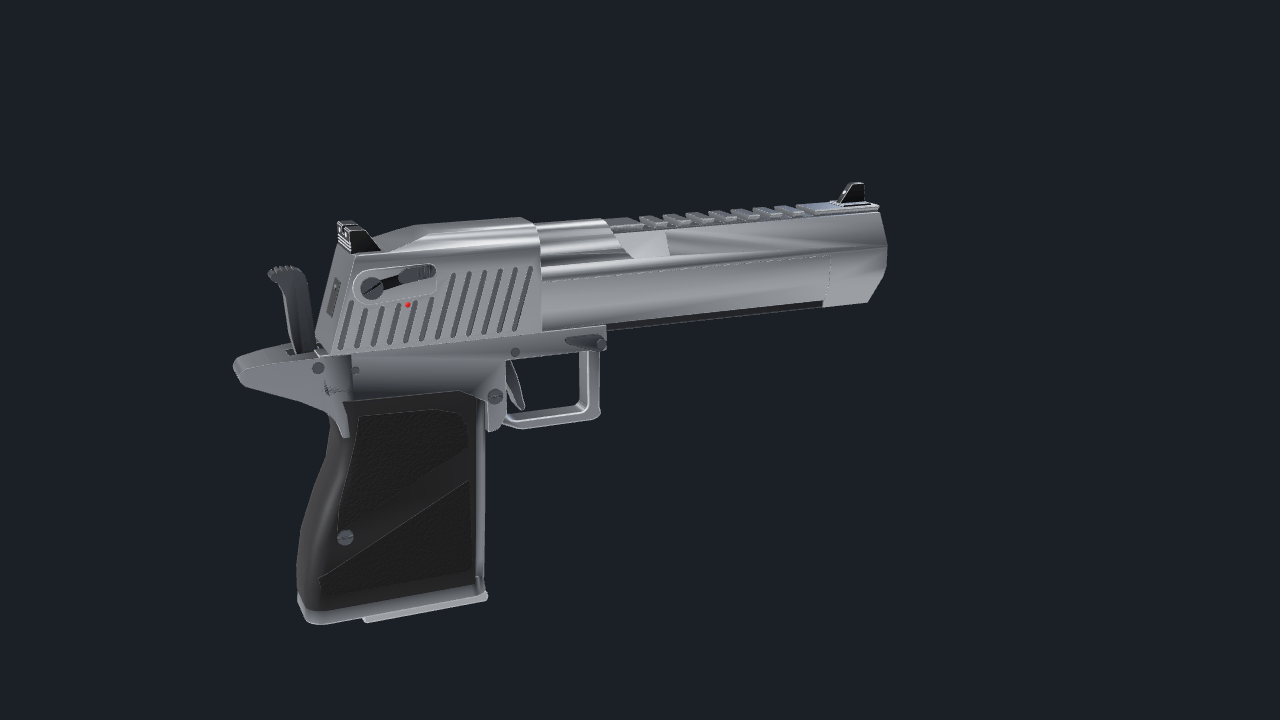
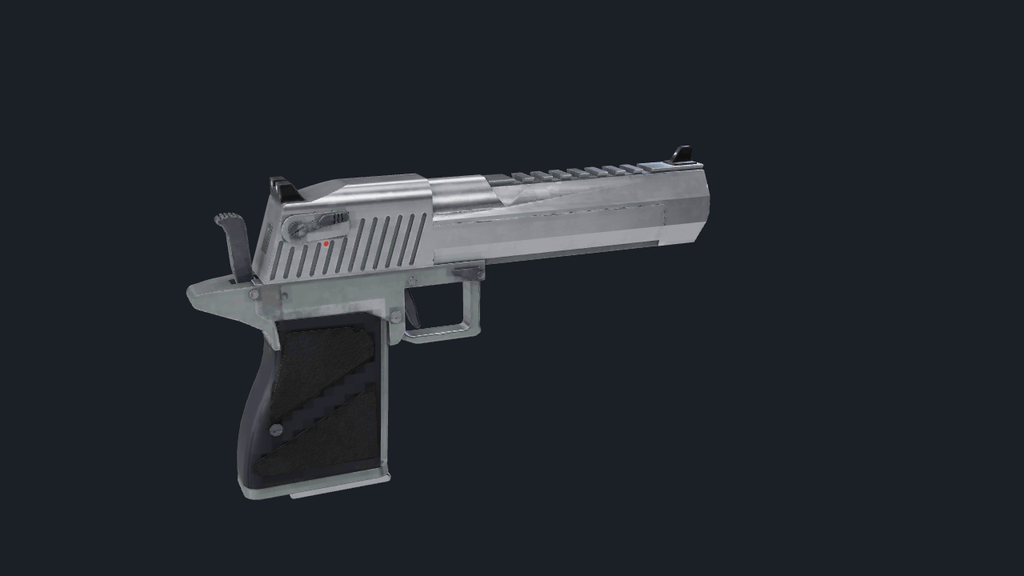
docs(weapons): bake pipeline, ktx2 rebuild step, texture budgets and new previews

diff --git a/docs/assets/weapons.md b/docs/assets/weapons.md
@@ -3,11 +3,13 @@
 All of these models are original. The two firearms are built by committed
 Blender scripts from 2D outlines, lathes and booleans. The 20 knives are built
 in TypeScript at runtime. Nothing is imported: no Valve or Counter-Strike
-assets, no Sketchfab rigs, no downloaded meshes or textures. The designs follow
-real-world firearm and knife layouts (a heavy .50 gas pistol, a bolt-action
-magnum with a thumbhole stock, common knife styles), the same way any shooter
-models a real gun, but every vertex comes from code in this repo. The only
-texture maps are small normal maps generated in the scripts.
+assets, no Sketchfab rigs, no downloaded meshes. The designs follow real-world
+firearm and knife layouts (a heavy .50 gas pistol, a bolt-action magnum with a
+thumbhole stock, common knife styles), the same way any shooter models a real
+gun, but every vertex comes from code in this repo. The firearm textures are
+baked by the scripts. Three CC0 ambientCG maps (Scratches005, Metal009 and
+Plastic012B, downscaled in `tools/blender/weapons/textures/`, listed in
+`CREDITS.md`) feed the bake as scratch and micro roughness detail.
 
 Display names stay "AWP" and "Deagle".
 
@@ -17,20 +19,32 @@ Display names stay "AWP" and "Deagle".
 # firearms (blender 5.2 lts). --renders writes the preview pngs, omit it for a faster build
 blender -b --factory-startup --python-exit-code 1 -P tools/blender/weapons/build_deagle.py -- --renders .blender-tmp/weapons/final
 blender -b --factory-startup --python-exit-code 1 -P tools/blender/weapons/build_awp.py -- --renders .blender-tmp/weapons/final
-npx tsx tools/assets/optimize-glb.ts .blender-tmp/weapons/deagle_raw.glb public/viewmodels/v2/deagle.glb --texture-size 1024
-npx tsx tools/assets/optimize-glb.ts .blender-tmp/weapons/awp_raw.glb public/viewmodels/v2/awp.glb --texture-size 1024
+# optimize with png kept (--no-webp) so ktx2 encodes from lossless sources, then ktx2 last
+npx tsx tools/assets/optimize-glb.ts .blender-tmp/weapons/deagle_raw.glb public/viewmodels/v2/deagle.glb --texture-size 1024 --no-webp
+KTX2_UASTC_NORMALS=1 npx tsx tools/assets/ktx2-textures.ts public/viewmodels/v2/deagle.glb public/viewmodels/v2/deagle.glb
+npx tsx tools/assets/optimize-glb.ts .blender-tmp/weapons/awp_raw.glb public/viewmodels/v2/awp.glb --texture-size 1024 --no-webp
+npx tsx tools/assets/ktx2-textures.ts public/viewmodels/v2/awp.glb public/viewmodels/v2/awp.glb
 node tools/blender/weapons/compress_previews.mjs .blender-tmp/weapons/final docs/screenshots/weapons 1280
-npx vitest run tools/assets/weapons.test.ts
+npx vitest run tools/assets/weapons.test.ts tools/assets/budgets.test.ts
 
-# quick iteration: no ao bake, orthographic left/right/top/front + 3/4 + first person in .blender-tmp/weapons/
-# (the deagle also writes deagle_ref_right.png, a right side at 4 px per mm for holding against a photo)
+# quick iteration: no high poly or bake, flat materials, orthographic left/right/top/front + 3/4 + first person
+# in .blender-tmp/weapons/ (the deagle also writes deagle_ref_right.png, a right side at 4 px per mm)
 blender -b --factory-startup --python-exit-code 1 -P tools/blender/weapons/build_deagle.py -- --quick
 ```
 
-Without `--renders` a build with the AO bake takes about 10 to 15 s per weapon
-on the M5 (the vertex AO bake runs on the CPU). The preview renders (Cycles on
-Metal) add a few minutes. The export is deterministic, so rebuilding without
-script changes gives the same GLB.
+The ktx2 step must run last: running the optimizer again afterwards would
+re-encode the textures. The Deagle's normal map uses UASTC
+(`KTX2_UASTC_NORMALS=1`). With ETC1S the long flat barrel and slide faces
+broke into sawtooth streaks in game, because ETC1S can't hold the smooth
+normal gradients along thin uv islands. UASTC costs about 460 KB more and
+the file still fits under 1.5 MB. The AWP keeps ETC1S normals: with UASTC it
+came to 1,579 KB, over the budget, and in game its round and ribbed parts
+don't show the streaks the Deagle's long flats did.
+
+A full build (high poly, uv atlas and ten bake passes at 2048) takes about 5
+minutes per gun on the M5 when the machine is otherwise idle. The preview
+renders (Cycles on Metal) add a few more. `--size 1024` bakes faster for
+iteration. `--quick` skips the high poly and the bake and takes about 30 s.
 
 ## How the firearms are built
 
@@ -45,21 +59,57 @@ describes its gun.
   the barrel), lofts and lathes. Corners use real fillets in 2D. Exact
   booleans cut serrations, ports, rail slots, flutes, the magwell and screw
   recesses.
+- **Curves** get their segment counts from a chord tolerance instead of fixed
+  numbers: a fillet or lathe gets as many segments as it needs to stay within
+  0.05 mm (fillets) or 0.03 mm (lathes) of the true arc on the low poly (0.05
+  mm on the AWP's lathes, which keeps it near 40k triangles). So big radii
+  like the hood, the guard and the scope bells stop faceting, and 1 mm pins
+  stay cheap. Polygons of 8 sides or fewer (hex nuts) are left alone. The
+  grip is lofted through catmull-rom steps between the measured sections, so
+  the palm swell has no loft kinks.
 - **Edges** use an angle-limited bevel with hardened normals, so no box edge
-  is left raw. On metal parts the convex bevel faces get `mat_steel_worn`:
-  slightly brighter, lower roughness bare steel that reads as worn edges.
-  Concave bevel faces go back to the base finish, because a real finish
-  doesn't wear in inside corners.
-- **Ambient occlusion** is baked with Cycles into a corner colour attribute
-  `ao` and exported as `COLOR_0`. three.js multiplies it into the base
-  colour. The static body is baked with every part in place. The magazine is
-  baked on its own, so it doesn't look dirty when it drops out. Corner
-  colours are averaged over corners that share a vertex and normal, so the
-  AO doesn't split extra vertices (this cut the Deagle from 252 to 186 KB).
-- **Textures**: `mat_grip` (Deagle) and `mat_polymer_green_stipple` (AWP grip
-  and forend) carry a generated 256x256 pebble normal map on planar UVs. The
-  optimizer turns it into WebP (about 30 KB). Everything else is plain PBR
-  factors.
+  is left raw. Bevels of 0.8 mm and up get 2 segments on the low poly (2 mm
+  and up get 3). The Deagle's guard is bevelled 1.6 mm so it reads as a round
+  bar, and the AWP's stock 4.5 mm like moulded polymer. Creases under the
+  bevel angle between two wide faces are marked sharp, because a smooth
+  28 degree crease bends the normals across the whole face next to it.
+- **Two builds, one bake.** Each script builds the gun twice from the same
+  functions. The low poly ships. The high poly has 3x finer curves, 3 to 5
+  segment round bevels and detail that only lives in the bake: anti-glare
+  lines on the rear sight, ridges on the safety paddle, slide stop and
+  magazine release, the grip screw slots, hex sockets in the AWP's screws,
+  knurled turret caps, diopter ring and cheek wheel, white filled click marks
+  around the turret skirts, and shader bump for grip stipple and polymer or
+  rubber grain.
+- **UV atlas**: the low poly is triangulated, split into islands by smart
+  project (66 degrees), re-unwrapped with minimum stretch, scaled to equal
+  texel density and then weighted by distance from the eye at the idle pose
+  (with less for the Deagle grip rubber and magazine and the AWP stock), and
+  packed into one square for all parts.
+- **Bakes** (Cycles, selected to active, 0.3 mm cage, 0.8 mm reach, 2048
+  square) from the high poly onto the atlas: tangent space normal (OpenGL,
+  +Y), and emission passes for each finish's base colour, wear colour,
+  roughness, metalness and wear, grime and breakup strengths, a mask pass
+  (ambient occlusion over 12 mm against every part, convex edges from
+  occlusion inside the mesh, cavities from short range occlusion) and detail
+  passes (CC0 scratch, brushed steel and plastic roughness maps projected
+  triplanar in object space with the brushing along the bore, plus
+  procedural grunge and smudge noise). The low polys are hidden from rays so
+  only the high poly occludes. The magazine is baked on its own, so it
+  doesn't look dirty when it drops out.
+- **Compositing** (numpy, `compose_textures` in `wlib.py`): convex edges broken
+  up by noise wear through to the wear colour and roughness (bare steel on
+  nitride and anodising, polished edges on stainless, lighter scuffs on
+  polymer). Cavities get grime, scratches and smudges break up the
+  roughness, and a little AO goes into the base colour so crevices stay dark
+  under the direct lights. Empty texels are dilated from their neighbours.
+  Then everything is box filtered down to what ships: base colour 1024,
+  normal 1024 (renormalised), ORM 512 (R occlusion, G roughness, B
+  metalness).
+- **One material per gun** (`mat_deagle`, `mat_awp`), single sided, so each
+  moving part is one draw call. The GLB carries tangents from Blender's
+  mikktspace, so three.js shades the normal map in the frame it was baked
+  in. There is no vertex AO any more: it's in the ORM map.
 - **Moving parts are empties on the pivot with the mesh in a child named
   `<part>_mesh`.** `optimize-glb.ts` runs gltf-transform `meshopt()`. Inside
   it, `quantize()` folds a scale and offset into the matrix of every mesh
@@ -74,21 +124,36 @@ describes its gun.
   extras and then three.js `userData`. Directions and angles are in three.js
   axes.
 
-### Materials
+### LOD
 
-| material | used for |
-|----------|----------|
+There is only LOD0. Nothing but the first person viewmodel
+(`src/viewmodel/ViewmodelSystem.ts`) and the dev preview load these GLBs.
+Remote players carry the procedural knife, and the menu shows player models.
+A viewmodel always sits at the same distance from the camera, so a lower LOD
+would never be picked. If third person guns show up later, a `--simplify`
+pass in `optimize-glb.ts` on the same atlas would be the place to start.
+
+### Finishes
+
+These are the finishes in the build scripts (`W.finish(...)`). Each one drives
+the bake (base and wear colour, roughness, metalness, how much it wears, grime,
+roughness breakup, scratches and micro surface). They all end up in the one
+atlas material per gun, so the GLB only has `mat_deagle` or `mat_awp`.
+`--quick` builds still render them as flat materials.
+
+| finish | used for |
+|--------|----------|
 | `mat_stainless` | satin stainless: Deagle slide, barrel, rail, magazine (the default finish) |
 | `mat_stainless_frame` | Deagle frame, guard, beavertail and grip core (rougher satin, the second tone) |
 | `mat_sight_black` | Deagle front and rear sights, matte black so the dots read |
 | `mat_steel_dark` | black nitride: AWP receiver, barrel, brake, rail, bipod; the Deagle's slide, barrel, sights and magazine with `--finish black` |
 | `mat_gunmetal` | the Deagle frame with `--finish black` |
 | `mat_steel` | pins, screws, levers, safety, hammer, trigger, Deagle bolt head and rear plate, polished AWP bolt |
-| `mat_steel_worn` | convex bevel faces on metal parts |
-| `mat_grip` | Deagle raised stippled grip fields |
+| `mat_grip` | Deagle raised stippled grip fields (stipple baked from shader bump) |
 | `mat_polymer_green`, `mat_polymer_green_stipple` | AWP stock, cheek rest, stippled grip and forend panels |
 | `mat_aluminium` | AWP chassis rail, guard, magwell lip, rings, bipod mount, cheek wheel |
 | `mat_scope` | scope tube, turrets, saddle |
+| `mat_scope_knurl` | diopter ring and turret caps (same anodising, much less wear, since every knurl ridge counts as an edge) |
 | `mat_glass` | dark tinted domed lenses (opaque, so the tube never looks hollow) |
 | `mat_rubber`, `mat_polymer_black` | Deagle smooth grip rubber; AWP butt pad, eye cup, bipod feet, bolt knob |
 | `mat_sight_dot`, `mat_paint_white`, `mat_indicator`, `mat_paint_red`, `mat_brass` | sight dots, turret marks, AWP cocking indicator, Deagle fire dot, top round in each magazine |
@@ -141,17 +206,24 @@ the same scale and matched the outline to within 2 or 3 mm.
 - Size: 273 mm long, 160 mm tall (front sight to floorplate), 37 mm wide over
   the safety levers (the slide is 32 mm). The bore is 158 mm from the breech
   face to the muzzle.
-- Triangles: 16,406 (body 9,294, slide 5,274, hammer 554, trigger 200, mag
-  1,084). 14,478 vertices. The file is 244 KB optimized (760 KB raw). The
-  earlier model was 11,040 triangles and 186 KB.
+- Triangles: 28,278 (body 14,572, slide 10,254, hammer 1,312, trigger 396,
+  mag 1,744), 5 draw calls. The high poly it's baked from is 84,414. The
+  earlier flat shaded model was 16,406 triangles and 235 KB.
+- Textures: one atlas baked at 2048 and shipped as ktx2: base colour 1024
+  (etc1s), normal 1024 (uastc, see Rebuild), ORM 512 (etc1s). The atlas
+  averages 3.5 texels per mm at 2048, more on the slide and hammer, less on
+  the grip rubber and the magazine. The file is 1,314 KB (3.0 MB of gpu
+  texture memory once transcoded).
 - Finish: satin stainless by default, with a rougher satin frame, darker steel
   controls and matte black sights. `--finish black` builds the black nitride
   version. The black one read as a near black shape against the bright maps
   once the viewmodel took the world's light (a 0.03 reflectance metal
   reflects almost nothing), so stainless is the shipped finish.
-- Materials: the metals are metallic 0.6 to 1 at roughness 0.22 to 0.5. The
-  rubber is dielectric at roughness 0.62 (smooth) and 0.85 (stippled). None
-  of it is tuned to one environment map.
+- Finishes: the slide and barrel are satin stainless brushed along the bore
+  (roughness 0.28, polished to 0.16 on worn edges), the frame a rougher bead
+  blast (0.4). The rubber is dielectric at roughness 0.62 (smooth, with a
+  fine grain) and 0.85 (stippled). None of it is tuned to one environment
+  map.
 - Nodes: `deagle` (root), then `body` (static mesh), `slide`, `hammer`,
   `trigger`, `mag` (pivot empties with `_mesh` children), and the sockets.
 - The build prints a clearance check. It poses the hammer fired and the
@@ -227,8 +299,17 @@ Bolt-action magnum, laid out like a thumbhole-stock precision rifle:
 - Size: 1,185 mm long, 249 mm tall including the scope, 102 mm wide
   including the bolt knob. The barrel is 660 mm from the breech to the
   crown, and the brake adds 70 mm.
-- Triangles: 25,188 (body 22,404, bolt 1,728, trigger 208, mag 848). 24,208
-  vertices. The file is 365 KB optimized (1,214 KB raw).
+- Triangles: 39,222 (body 34,534, bolt 2,888, trigger 224, mag 1,576), 4
+  draw calls. The high poly it's baked from is 213,903. The earlier model
+  was 25,188 triangles and 356 KB.
+- Textures: one atlas baked at 2048, shipped as ktx2 etc1s: base colour 1024,
+  normal 1024, ORM 512. The atlas averages 1.8 texels per mm at 2048. The
+  eyepiece, turrets and action get up to 1.9 times that, and the stock
+  (beside and below the camera) and the brake far less. The file is
+  1,007 KB (3.0 MB of gpu texture memory).
+- Finishes: black nitride steel, anodised aluminium chassis and scope (worn
+  edges go to bare metal), a polished bolt, green polymer with a moulded grain
+  and stippled panels, and clean glass.
 - Nodes: `awp` (root), then `body`, `bolt`, `trigger`, `mag` (pivot empties
   with `_mesh` children), and the sockets.
 
@@ -376,8 +457,9 @@ Dev tools:
   - the size is within 10% of the target
   - the barrel points along -Z from the grip, and `socket_grip_r` tilts up
     the rake and sits at the origin
-  - the triangle budgets hold, and AO and `mat_*` materials are on every
-    primitive
+  - the triangle budgets hold (36k Deagle, 42k AWP)
+  - every primitive uses the one `mat_*` atlas material with base colour,
+    ORM, occlusion and normal textures, and carries uvs and tangents
   - the support hand and scope eye are placed correctly
 - `src/cosmetics/__tests__/ProceduralKnife.test.ts` checks:
   - sockets on all 20 knives
